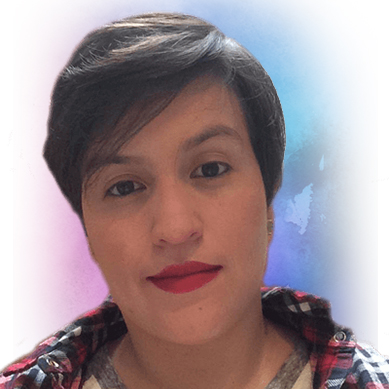
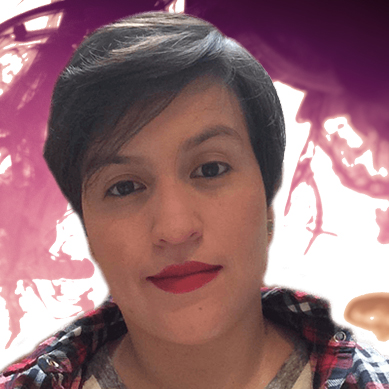
the team

diff --git a/team.html b/team.html
@@ -314,7 +314,7 @@
 
 
 
-							<img src="img\team-john-back-01.jpg" alt="wegacha">
+							<img src="img\team-quenvy-back-01.jpg" alt="wegacha">
 	          	<div class="team-text">
 	          		<div class="team-name">Quenvy Malavé</div>
 	          		<div class="team-position">Illustrator &amg; 2D Animator</div>
@@ -407,7 +407,18 @@
 	          	</div>
         </div>
 
-        <div class="col-lg-4 col-md-6 col-sm-6 col-xs-12 team-wrapper">
+        
+     	</div>
+
+      <div class="row">
+        <div class="col-md-6 col-md-offset-3">
+        	<br><br>
+          <h2>The Heroes</h2>
+        </div>
+      </div>
+
+      <div class="row-team team">
+      	<div class="col-lg-4 col-md-6 col-sm-6 col-xs-12 team-wrapper">
 							<svg id="letter-a" class="letter-team" version="1.1"
 								 xmlns="http://www.w3.org/2000/svg" xmlns:xlink="http://www.w3.org/1999/xlink" xmlns:a="http://ns.adobe.com/AdobeSVGViewerExtensions/3.0/"
 								 x="0px" y="0px" viewBox="0 0 382 382" style="enable-background:new 0 0 382 382;"
@@ -433,14 +444,12 @@
 	          		<div class="team-position">Super Hero</div>
 	          	</div>
         </div>
-     	</div>
-     </div>
+      </div>
+		</div>
 
       <div class="row team">
         <a href="https://wegacha.freshteam.com/jobs" target="_blank" class="btn btn-primary">Join Our Team</a>
       </div>
-      
-    </div>
   </section>
     
 <section class="audit text-center">
